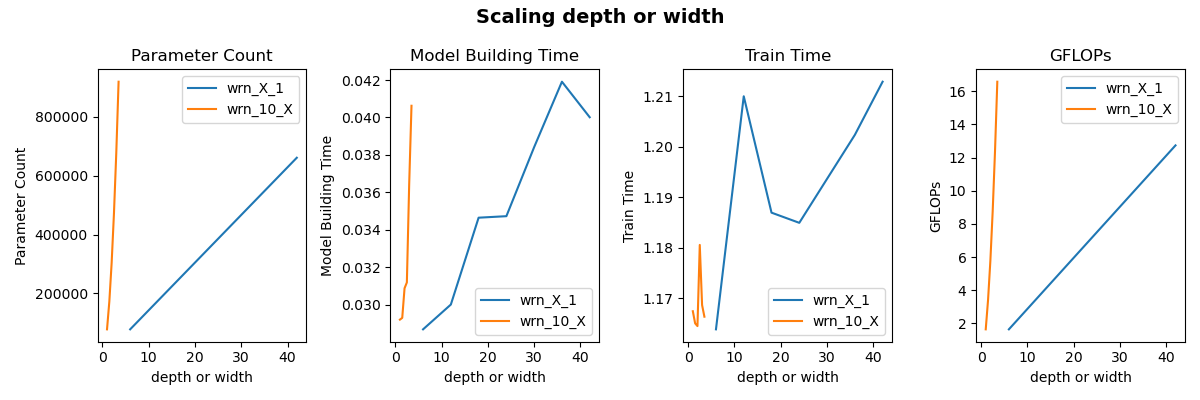
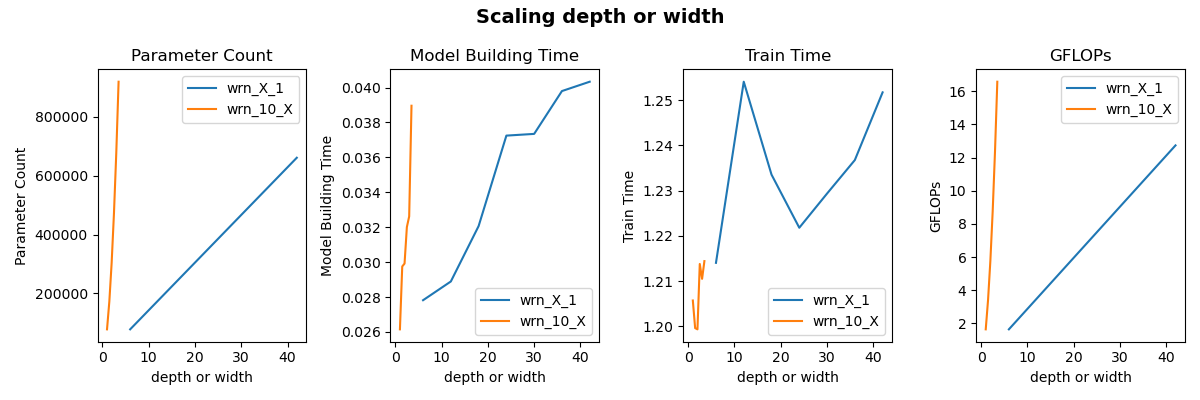
galaxy10 works now

diff --git a/experiment/datasets/Galaxy10_DECals/data_loader_Galaxy10_DECals.py b/experiment/datasets/Galaxy10_DECals/data_loader_Galaxy10_DECals.py
@@ -2,30 +2,36 @@ import torch
 from tqdm import tqdm
 import h5py
 import numpy as np
+from torchvision import transforms
+from torch.utils.data import DataLoader
+from PIL import Image
+
 
 MEAN = [0.01443392, 0.01443392, 0.01443392]
 STD = [0.12014125, 0.1125077, 0.10281154]
 
 class Galaxy10Dataset(torch.utils.data.Dataset):
-    def __init__(self, dir):
+    def __init__(self, images, labels, transform=None):
         super().__init__()
-        self.dir = dir
-
-        with h5py.File(self.dir, 'r') as F:
-            self.images = np.array(F['images'])
-            self.labels = np.array(F['ans'])
-
-        self.labels = to_categorical(self.labels, 10)
-        self.images = self.images.astype(np.float32)
-        self.images = np.transpose(self.images, (0, 3, 1, 2))
-        # print("mean: ", np.mean(self.images / 255, axis=(0, 2, 3)))
-        # print("std: ", np.std(self.images / 255, axis=(0, 2, 3)))
+        self.images = images
+        self.labels = labels
+        self.transform = transform
 
     def __len__(self):
         return len(self.images)
 
     def __getitem__(self, index):
-        return self.images[index], self.labels[index]
+        image = self.images[index]
+        label = self.labels[index]
+
+        image = Image.fromarray(image)
+
+        if self.transform is not None:
+            image = self.transform(image)
+
+        label = torch.tensor(label, dtype=torch.int64)
+
+        return image, label
 
     
 def to_categorical(y, num_classes):
@@ -33,7 +39,7 @@ def to_categorical(y, num_classes):
     return np.eye(num_classes, dtype='uint8')[y]
 
 
-def get_dataloader(
+def build_galaxy10_loaders(
         batch_size,
         eval_batchsize,
         dir,
@@ -41,67 +47,86 @@ def get_dataloader(
         num_workers=8,
         augment=False,
         ):
-    dataset = Galaxy10Dataset(dir)
+    with h5py.File(dir, 'r') as F:
+        images = np.array(F['images'])
+        labels = np.array(F['ans'])
+
+    #labels = to_categorical(labels, 10)
+    images = images.astype(np.uint8)
+
+    # Split the data into train, val, and test arrays.
     np.random.seed(42)
-
-    # Split the dataset into train, val, and test sets.
-    indices = np.arange(len(dataset))
+    indices = np.arange(len(images))
     np.random.shuffle(indices)
-    split = int(len(dataset) * 0.8)
+    split = int(len(images) * 0.8)
     train_indices = indices[:split]
-    val_indices = indices[split:split + int(len(dataset) * 0.1)]
-    test_indices = indices[split + int(len(dataset) * 0.1):]
+    val_indices = indices[split:split + int(len(images) * 0.1)]
+    test_indices = indices[split + int(len(images) * 0.1):]
 
-    # Create the train, val, and test datasets.
-    train_dataset = torch.utils.data.Subset(dataset, train_indices)
-    val_dataset = torch.utils.data.Subset(dataset, val_indices)
-    test_dataset = torch.utils.data.Subset(dataset, test_indices)
+    train_images = images[train_indices]
+    train_labels = labels[train_indices]
+    val_images = images[val_indices]
+    val_labels = labels[val_indices]
+    test_images = images[test_indices]
+    test_labels = labels[test_indices]
 
-    valid_transform = torch.utils.data.transforms.Compose([
-                torch.utils.data.transforms.ToTensor(),
-                torch.utils.data.transforms.Normalize(MEAN, STD),
+    valid_transform = transforms.Compose([
+                transforms.Resize(resolution),
+                #transforms.CenterCrop(resolution),
+                transforms.ToTensor(),
+                transforms.Normalize(MEAN, STD),
             ])
 
     if augment:
-        train_transform = torch.utils.data.transforms.Compose([
-                torch.utils.data.transforms.ToTensor(),
-                torch.utils.data.transforms.Normalize(MEAN, STD),
+        train_transform = transforms.Compose([
+                transforms.Resize(resolution),
+                #transforms.CenterCrop(resolution),
+                transforms.ToTensor(),
+                transforms.Normalize(MEAN, STD),
             ])
     else:
         train_transform = valid_transform
 
+    # Create the train, val, and test datasets.
+    train_dataset = Galaxy10Dataset(train_images, train_labels, transform=train_transform)
+    val_dataset = Galaxy10Dataset(val_images, val_labels, transform=valid_transform)
+    test_dataset = Galaxy10Dataset(test_images, test_labels, transform=valid_transform)
+
+
     # Create the train, val, and test dataloaders.
-    train_dataloader = torch.utils.data.DataLoader(
+    train_dataloader = DataLoader(
         train_dataset,
         batch_size=batch_size,
         shuffle=True,
         num_workers=num_workers,
-        transform=train_transform,
         )
-    val_dataloader = torch.utils.data.DataLoader(
+    val_dataloader = DataLoader(
         val_dataset,
         batch_size=eval_batchsize,
         shuffle=False,
         num_workers=num_workers,
-        transform=valid_transform,
         )
-    test_dataloader = torch.utils.data.DataLoader(
+    test_dataloader = DataLoader(
         test_dataset,
         batch_size=eval_batchsize,
         shuffle=False,
         num_workers=num_workers,
-        transform=valid_transform,
         )
 
-    return train_dataloader, val_dataloader, test_dataloader
+    n_inputs = 3
+    n_classes = 10
+
+    return train_dataloader, val_dataloader, test_dataloader, n_inputs, n_classes
 
 
 if __name__ == '__main__':
-    train_dataloader, val_dataloader, test_dataloader = get_dataloader(batch_size=128, eval_batchsize=16, dir=ROOT_DIR + DATASET_FOLDER + DATASET_NAME)
+    train_dataloader, val_dataloader, test_dataloader, n_inputs, n_classes = build_galaxy10_loaders(batch_size=128, eval_batchsize=16, dir= "../Data/frischs/datasets/Galaxy10_DECals/Galaxy10_DECals.h5", resolution=224, num_workers=8, augment=False)
 
     for i, (images, labels) in enumerate(train_dataloader):
         print(images.shape)
         print(labels.shape)
+        print(labels.dtype)
+
         break
 
 

diff --git a/experiment/utils.py b/experiment/utils.py
@@ -109,6 +109,8 @@ from experiment.datasets.cifar100 import data_loader_cifar100
 from experiment.datasets.STL10 import data_loader_stl10
 from experiment.datasets.STL10 import data_loader_stl10frac
 from experiment.datasets.imagenette import data_loader_imagenette
+from experiment.datasets.Galaxy10_DECals import data_loader_Galaxy10_DECals
+
 
 
 def build_dataloaders(cfg):
@@ -282,7 +284,19 @@ def build_dataloaders(cfg):
             drop_last=drop_last_train,
             resolution=resolution,
             resolution_test = resolution_test,
-        )    
+        ) 
+    elif dataset == "Galaxy10_DECals":
+        resolution = cfg.dataset.resolution
+        dir = cfg.dataset.data_dir
+        train_loader, valid_loader, test_loader, n_inputs, n_outputs = data_loader_Galaxy10_DECals.build_galaxy10_loaders(
+            batch_size,
+            eval_batch_size,
+            dir=dir,
+            augment=augment,
+            num_workers=num_workers,
+            resolution=resolution,
+        ) 
+
     else:
         raise ValueError("Dataset '{}' not recognized!".format(dataset))
     

diff --git a/experiment/run_files/galaxy10.py b/experiment/run_files/galaxy10.py
@@ -1,0 +1,28 @@
+import sys
+sys.path.append('../run_files') # add parent directory
+from run_command import run_command
+
+# python networks/eq_wrn.py -m model.kernel_layout=[3,3],[3,1],[1,3],[3,1,3],[1,3,1],[3,1,1]
+# kernel_layout = [3,3],[3,1],[1,3],[3,1,3],[1,3,1],[3,1,1]
+
+# global arguments
+global_args = [
+        "model=eq_wrn", 
+        "model.fix_params_mode=heuristic",
+        "model.restrict=[halved,invariant]",
+        "model.padding=1",
+        "model.rotation=8",
+
+        "dataset=galaxy10",
+        "dataset.resolution=108",
+
+        "training=train_e2_100epochs",
+        "optimizer=SGD",
+        
+        "wandb.tags=[galaxy10]",
+        "wandb.group=galaxy10",
+    ]
+
+
+args = ["model.kernel_layout=[3,3]", "model.depth=16", "model.widen_factor=4", "wandb.notes=g10_baseline"]
+run_command(args, global_args, test=False)

diff --git a/experiment/run_files/test.py b/experiment/run_files/test.py
@@ -1,13 +1,13 @@
 import sys
 sys.path.append('../run_files') # add parent directory
-from run_command import run_command, run_command_test
+from run_command import run_command
 
 # experiment rotation
 # experiment 2 discretization artifacts
 
 # global arguments
 global_args = [
-        "model=eq_mobilenetv2", 
+        "model=eq_wrn", 
         "dataset=cifar10",
         "training=train_e2_100epochs",
         "optimizer=SGD",
@@ -27,7 +27,7 @@ global_args = [
 args = [#"model.depth=16", "model.widen_factor=1", 
         "wandb.notes=check_if_train_time_log",
         "dataset.resolution=32", "model.drop_out=0.0"]
-run_command(args, global_args, test="instantiation")
+run_command(args, global_args, test=True)
 
 # mobilenet
 

diff --git a/experiment/run_files/run_command.py b/experiment/run_files/run_command.py
@@ -8,7 +8,7 @@ def run_command(args, global_args, test):
     ]
     if test == "instantiation":
         # only instantiate and test network
-        command = ["python", "networks/network_instantiation.py", "-m"]
+        command = ["python", "experiment/network_instantiation.py", "-m"]
         command.extend(global_args_test)
         command.extend(args)
         output = subprocess.check_output(command, text=True)

diff --git a/experiment/main.py b/experiment/main.py
@@ -241,6 +241,9 @@ class Experiment:
             x = x.to(self.device)
             t = t.to(self.device)
             y = self.model(x)
+            #print("y", y.shape, y.dtype)
+            #print("t", t.shape, t.dtype)
+            #print("x", x.shape, x.dtype)
             loss = self._loss_function(y, t)
             acc = accuracy(y.detach(), t.detach())
                         

diff --git a/scaling/run_time_plots.py b/scaling/run_time_plots.py
@@ -13,7 +13,7 @@ import sys
 import re
 sys.path.append('..') # add parent directory
 sys.path.append('../scaling-laws-ecnn') # add parent directory
-from networks.network_instantiation import main
+from experiment.network_instantiation import main
 from scaling.util import plot_model_data, binary_search_over_model_scaling
 from experiment.run_files.run_command import run_command
 

diff --git a/networks/eq_layers.py b/networks/eq_layers.py
@@ -68,7 +68,7 @@ class Restriction(EquivariantModule):
     ):
         super().__init__()
         self.in_type = in_type
-        if restrict == "none":
+        if restrict == "none" or restrict is None:
             self.restrict = nn.Identity()
             self.out_type = self.in_type
         else:

diff --git a/scaling/util.py b/scaling/util.py
@@ -3,7 +3,7 @@ import sys
 from matplotlib import pyplot as plt
 sys.path.append('../scaling-laws-ecnn') # add parent directory
 
-from networks.network_instantiation import main
+from experiment.network_instantiation import main
 
 
 def binary_search_over_model_scaling(
